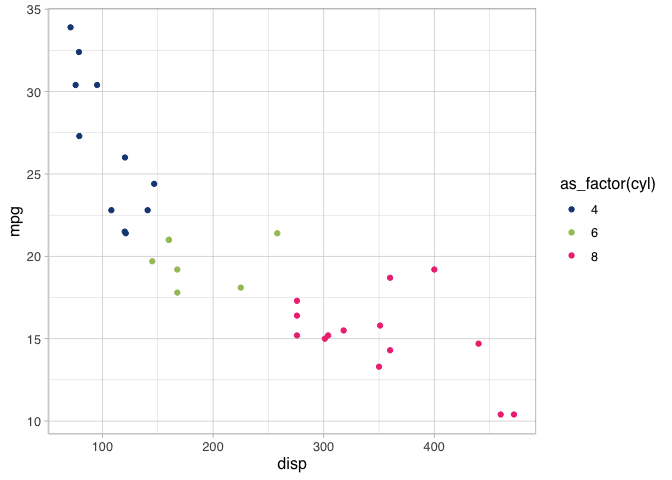
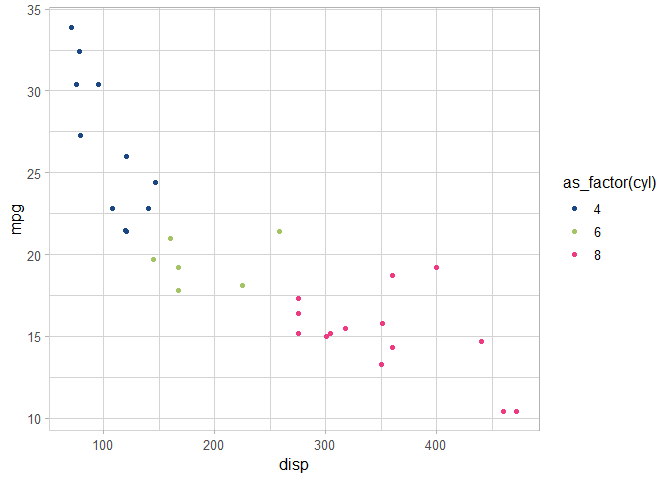
updated README.Rmd
1. updated README.Rmd with references to Camp RIO palette
2. re-rendered README markdown

diff --git a/README.md b/README.md
@@ -6,11 +6,16 @@
 <!-- badges: start -->
 <!-- badges: end -->
 
-The goal of ideacolors is simple: to ensure that IDEA R&A graphics
-generated in `R` with `ggplot2` conform to [IDEA’s Brand
-Guidelines](https://ideapublicschoolsorg.sharepoint.com/:b:/r/sites/MCE/Shared%20Documents/Creative%20Resources,%20Logos,%20and%20Mascots/Brand%20Guidelines/branding_brand_guidelines_10x10_2019.pdf?csf=1&web=1&e=SfZG79)
-by providing themes and scales. It uses the palette defined in the Brand
-Guidelines document found on pages 21-22.
+The goal of `ideacolors` is simple: to ensure that graphics generated by
+IDEA Research and Analytics in `R` with `ggplot2` conform to [IDEA’s
+Brand Guidelines
+(2019)](https://ideapublicschoolsorg.sharepoint.com/:b:/r/sites/MCE/Shared%20Documents/Creative%20Resources,%20Logos,%20and%20Mascots/Brand%20Guidelines/branding_brand_guidelines_10x10_2019.pdf?csf=1&web=1&e=SfZG79)
+by providing themes and scales. It uses the palette defined in the 2019
+Brand Guidelines document found on pages 21-22.
+
+Similarly, `ideacolors` also provides a palette defined in the [Camp RIO
+Branding Guidelines (2022)](https://brandfolder.com/ideapublicschools)
+on page 7 for visualizations related to Camp RIO.
 
 The point is to help us innovate on the content of our visualizations
 rather than the look and feel. Indeed, the latter is important in
@@ -35,14 +40,16 @@ Here we can use `scale_idea_colors` and `theme_idea_light`
 library(ideacolors)
 
 library(tidyverse)
-#> ── Attaching packages ─────────────────────────────────────── tidyverse 1.3.0 ──
-#> ✓ ggplot2 3.3.3     ✓ purrr   0.3.4
-#> ✓ tibble  3.1.0     ✓ dplyr   1.0.5
-#> ✓ tidyr   1.1.3     ✓ stringr 1.4.0
-#> ✓ readr   1.4.0     ✓ forcats 0.5.0
+#> ── Attaching core tidyverse packages ──────────────────────── tidyverse 2.0.0 ──
+#> ✔ dplyr     1.1.4     ✔ readr     2.1.4
+#> ✔ forcats   1.0.0     ✔ stringr   1.5.1
+#> ✔ ggplot2   3.5.0     ✔ tibble    3.2.1
+#> ✔ lubridate 1.9.3     ✔ tidyr     1.3.0
+#> ✔ purrr     1.0.2     
 #> ── Conflicts ────────────────────────────────────────── tidyverse_conflicts() ──
-#> x dplyr::filter() masks stats::filter()
-#> x dplyr::lag()    masks stats::lag()
+#> ✖ dplyr::filter() masks stats::filter()
+#> ✖ dplyr::lag()    masks stats::lag()
+#> ℹ Use the conflicted package (<http://conflicted.r-lib.org/>) to force all conflicts to become errors
 
 p <- ggplot(mtcars, aes(x=disp, y=mpg)) +
   geom_point(aes(color=as_factor(cyl))) +
@@ -61,8 +68,8 @@ And we can change it up with a qualitative color scale and
 p + 
   scale_color_idea(palette = "qual") +
   theme_idea_min()
-#> Scale for 'colour' is already present. Adding another scale for 'colour',
-#> which will replace the existing scale.
+#> Scale for colour is already present.
+#> Adding another scale for colour, which will replace the existing scale.
 ```
 
 <img src="man/figures/README-example_2-1.png" width="100%" />
